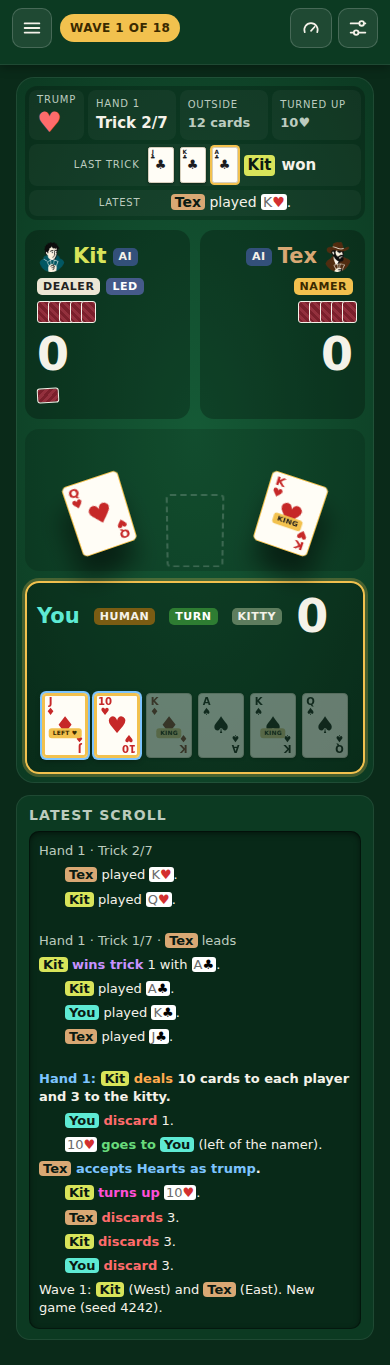
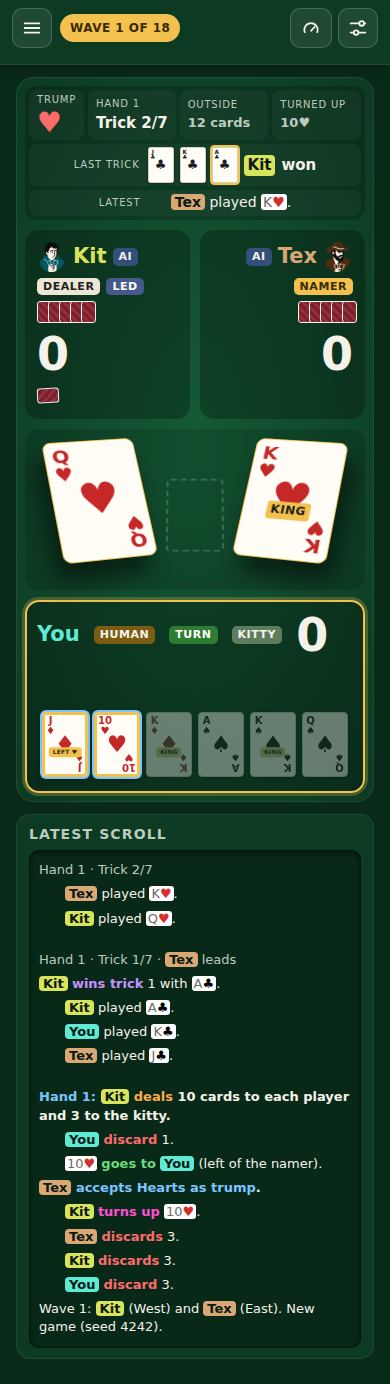
Restore the first 3D tilt and double the bot trick cards
Back to the table tilting away from you (rotateX 22deg). The bot cards
in the trick are twice the base card size; your slot stays about 1.2x.

Claude-Session: https://claude.ai/code/session_01QkpazkapUFZWg4SWZB1dDA

diff --git a/mockups/advanced.js b/mockups/advanced.js
@@ -42,13 +42,15 @@ const css = `
 .won .mini-back:nth-child(2n){transform:rotate(2deg)}
 .seat-east .won{justify-content:flex-end}
 /* Trick cards in 3D: the table tilts away from you, each bot card turns to face your slot, lifted and larger. */
-.trick{perspective:900px;perspective-origin:50% 40%;min-height:calc(var(--cw)*2.7)!important;padding:18px 10px 14px!important}
+.trick{perspective:900px;perspective-origin:50% 120%;min-height:calc(var(--cw)*2.7)!important;padding:18px 10px 14px!important}
 .trick .slot{transform-style:preserve-3d}
 .trick .slot .card,.trick .slot .empty{--w:calc(var(--cw)*1.22);width:var(--w);height:calc(var(--w)*1.4);transition:transform .3s}
-.trick .slot-1 .card{transform:rotateX(-24deg) rotateY(16deg) rotateZ(-14deg) translateZ(30px);box-shadow:-8px 26px 26px rgba(0,0,0,.5)}
-.trick .slot-2 .card{transform:rotateX(-24deg) rotateY(-16deg) rotateZ(14deg) translateZ(30px);box-shadow:8px 26px 26px rgba(0,0,0,.5)}
-.trick .slot-0 .card,.trick .slot-0 .empty{transform:rotateX(-24deg) translateZ(30px)}
-.trick .slot-0 .card{box-shadow:0 26px 26px rgba(0,0,0,.5)}
+.trick .slot-1 .card,.trick .slot-2 .card{--w:calc(var(--cw)*2)}
+.trick{min-height:calc(var(--cw)*3.3)!important}
+.trick .slot-1 .card{transform:rotateX(22deg) rotateY(16deg) rotateZ(-14deg) translateZ(30px);box-shadow:-10px 18px 22px rgba(0,0,0,.5)}
+.trick .slot-2 .card{transform:rotateX(22deg) rotateY(-16deg) rotateZ(14deg) translateZ(30px);box-shadow:10px 18px 22px rgba(0,0,0,.5)}
+.trick .slot-0 .card,.trick .slot-0 .empty{transform:rotateX(22deg) translateZ(30px)}
+.trick .slot-0 .card{box-shadow:0 18px 22px rgba(0,0,0,.5)}
 .c-tag.king{background:#f2c14e;color:#1b1b1b}
 .gamelog li.gap:first-child{margin-top:0}
 `;

diff --git a/index.html b/index.html
@@ -2066,7 +2066,7 @@ const UI_PROFILE_ADVANCED = Object.freeze({
   '.who': { kind: 'L, S', show: 'Hidden. The slot\'s position shows who played.', click: null },
   '.summary': { kind: 'S, R', show: 'As now.', click: 'Its Continue button moves on, as now.' },
   '.meta': { kind: 'R', show: 'As now.', click: null },
-  '.trick': { kind: 'S', show: 'As now: one slot per seat, your slot lower than the bot slots, as at a real table. The trick cards are larger (about 1.2 times) and in 3D: each card leans its top toward you so its face aims down at the board, each bot card turns toward your slot, and every card lifts with a soft shadow. Reduced motion keeps the pose but drops the transition. At trick end the cards slide to the winner\'s won-trick stack.', click: 'Skips the trick-end wait, as now.', issue: 53 },
+  '.trick': { kind: 'S', show: 'As now: one slot per seat, your slot lower than the bot slots, as at a real table. The trick cards are in 3D: the table tilts away from you, each bot card turns to face your slot, and every card lifts with a soft shadow. Bot cards are twice the base card size; your slot is about 1.2 times. Reduced motion keeps the pose but drops the transition. At trick end the cards slide to the winner\'s won-trick stack.', click: 'Skips the trick-end wait, as now.', issue: 53 },
   'table.stats': { kind: 'R', show: 'As now.', click: null },
   '.status': { kind: 'S', show: 'Hidden on screen. #liveStatus still reads the full sentence to screen readers.', click: null, issue: 53 },
   '.lasttrick': { kind: 'R', show: 'Hidden in the center. The Last trick cell of the information strip shows it.', click: null, issue: 53 },
